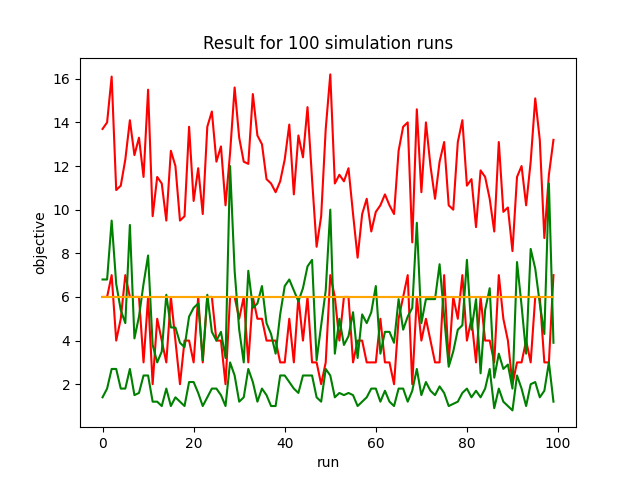
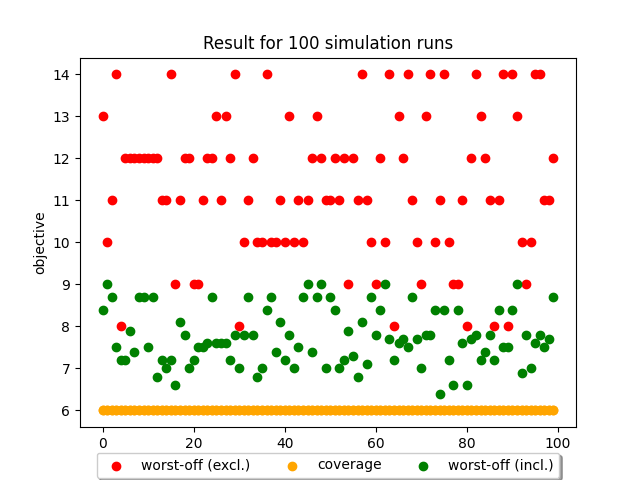
results 3x

diff --git a/NSP_benchmark/main.py b/NSP_benchmark/main.py
@@ -2,41 +2,60 @@ from model import find_schedule, read_instance
 import numpy as np
 import matplotlib.pyplot as plt
 
-runs = 10
+runs = 100
 total_dissat_runs = []
+worst_off_excl = []
+worst_off_incl = []
 worst_off_runs = []
 cover_runs = []
 total_dissat_BMs = []
 worst_off_BMs = []
 coverage_BMs = []
 
-for run in range(runs):
-    instance = read_instance(1)
-    for nurse in instance.N:
-        nurse.pref_alpha = round(np.random.uniform(0, 10, 1)[0])/10  # st.sidebar.slider('alpha*', 0.0, 1.0, 0.5, step=0.1)
+stack_cover = []
+stack_excl = []
+stack_incl =[]
 
-    schedule, tot_dis, worst_off, coverage = find_schedule(instance, weight_over=10, weight_under=100, include_satisf = True)  # returns NSP and sol
-    schedule, tot_dis_BM, worst_off_BM, coverage_BM = find_schedule(instance, weight_over=10,
-                                                           weight_under=100, include_satisf = False)  # returns NSP and sol
+for inst in range(4, 7):
+    for run in range(runs):
+        print(run)
+        instance = read_instance(inst)
+        for nurse in instance.N:
+            nurse.pref_alpha = round(np.random.uniform(0, 10, 1)[0])/10
 
-    total_dissat_runs.append(tot_dis/len(instance.N))
-    worst_off_runs.append(worst_off)
-    cover_runs.append(coverage/100)
-    total_dissat_BMs.append(tot_dis_BM/len(instance.N))
-    worst_off_BMs.append(worst_off_BM)
-    coverage_BMs.append(coverage_BM/100)
-    # TODO: show also schedules with same coverage but lower satisfaction scores (obj = coverage only)
+        schedule, tot_dis, worst_off, coverage = find_schedule(instance, weight_over=10, weight_under=100, include_satisf = True)  # returns NSP and sol
+        schedule, tot_dis_BM, worst_off_BM, coverage_BM = find_schedule(instance, weight_over=10,
+                                                               weight_under=100, include_satisf = False)  # returns NSP and sol
 
-plt.scatter(np.arange(runs), total_dissat_BMs, s='x', color='red', label='BM dissatisfaction penalty (sum)')
-plt.scatter(np.arange(runs), worst_off_BMs, s='o',color='red', label = 'BM worst off (dissatisfaction)')
-plt.scatter(np.arange(runs), coverage_BMs,s='-', color='orange', label='BM (under)coverage penalty')
+        total_dissat_runs.append(tot_dis/len(instance.N))
+        worst_off_incl.append(worst_off+coverage/100)
+        worst_off_excl.append(worst_off_BM+coverage/100)
+        cover_runs.append(coverage/100)
+        total_dissat_BMs.append(tot_dis_BM/len(instance.N))
+        worst_off_BMs.append(worst_off_BM+coverage_BM/100)
+        coverage_BMs.append(coverage_BM/100)
 
-plt.scatter(np.arange(runs), total_dissat_runs, s='x', color='green', label='dissatisfaction penalty (sum)')
-plt.scatter(np.arange(runs), worst_off_runs, s='o',color='green', label = 'worst off (dissatisfaction)')
-plt.scatter(np.arange(runs), cover_runs, s='-', color='orange', label='(under)coverage penalty')
-plt.title(f'Result for {runs} simulation runs')
-plt.xlabel('run')
-plt.ylabel('objective')
-plt.legend(loc='upper right')
-plt.savefig(f'simulation results/Simulation results for {runs} runs.png')
-plt.show()
+        stack_cover.append(coverage/100)
+        stack_excl.append(worst_off_BM)
+        stack_incl.append(worst_off)
+        # TODO: show also schedules with same coverage but lower satisfaction scores (obj = coverage only)
+
+    # #plt.scatter(np.arange(runs), total_dissat_BMs,  color='red', label='BM dissatisfaction penalty (sum)')
+    # plt.plot(np.arange(runs), worst_off_excl, color='red', label = 'worst-off (excl.)')
+    # plt.plot(np.arange(runs), cover_runs, color='orange', label='coverage')
+    # #plt.scatter(np.arange(runs), total_dissat_runs,  color='green', label='dissatisfaction penalty (sum)')
+    # plt.plot(np.arange(runs), worst_off_incl,color='green', label = 'worst-off (incl.)')
+    # plt.ylim(0, max(worst_off_excl)+3)
+
+
+    plt.stackplot(np.arange(runs), stack_cover, stack_incl, stack_excl, colors=['green', 'orange', 'red'])
+    #plt.scatter(np.arange(runs), worst_off_incl, color='red')
+
+    #plt.plot(np.arange(runs), cover_runs, color='orange', label='')
+
+    plt.title(f'Result for {runs} simulation runs')
+    plt.xlabel('run')
+    plt.ylabel('objective')
+    plt.legend(loc='upper center', bbox_to_anchor=(0.5, -0.05), ncol=4, fancybox=True, shadow=True)
+    plt.savefig(f'simulation results/Simulation results for {runs} runs instance {inst}.png')
+    plt.show()

diff --git a/NSP_benchmark/model.py b/NSP_benchmark/model.py
@@ -398,7 +398,7 @@ def find_schedule(instance, weight_under=100, weight_over=10, vis_schedule=True,
     if vis_schedule:
         schedule = pd.read_csv(
             f'C:/Users/EvavR/OneDrive/Documenten/GitHub/thesis_MSc/NSP_benchmark/instances1_24/instance{instance.instance_ID}/schedule_to_fill.csv',
-            delimiter=',')
+            delimiter=';')
         schedule.set_index('nurse', inplace=True)
 
         for day in D:
@@ -410,11 +410,9 @@ def find_schedule(instance, weight_under=100, weight_over=10, vis_schedule=True,
                         schedule.iloc[nurse.numerical_ID, day - 1] = shift.shift_ID
 
         schedule.to_csv(f'Schedule{instance.instance_ID}.csv')
-        print(schedule)
         return schedule, sol.get_value(obj_total_dissatisfaction), sol.get_value(obj_worst_off), sol.get_value(obj_cover)
 
     return NSP, sol
-
 
 def string_to_numerical_shift(shiftID, S):
     # look for shift in set S with shiftID string
@@ -460,11 +458,18 @@ def read_instance(inst_id):
                     row['MinConsecutiveDaysOff'], row['MaxWeekends']))
         ID = ID + 1
 
-    for nurse in N:
-        nurseID = nurse.nurse_ID
-        daysOffNurse1 = daysOff.loc[daysOff['EmployeeID'] == nurseID]['DayIndexes (start at zero)'].item()
-        # daysOffNurse2 = daysOff.loc[daysOff['EmployeeID'] == nurseID]['DayIndexes2 (start at zero)'].item()
-        nurse.days_off = [daysOffNurse1]
+    if inst_id < 4:
+        for nurse in N:
+            nurseID = nurse.nurse_ID
+            daysOffNurse1 = daysOff.loc[daysOff['EmployeeID'] == nurseID]['DayIndexes (start at zero)'].item()
+            nurse.days_off = [daysOffNurse1]
+
+    elif inst_id >= 4:
+        for nurse in N:
+            nurseID = nurse.nurse_ID
+            daysOffNurse1 = daysOff.loc[daysOff['EmployeeID'] == nurseID]['DayIndexes1 (start at zero)'].item()
+            daysOffNurse2 = daysOff.loc[daysOff['EmployeeID'] == nurseID]['DayIndexes2 (start at zero)'].item()
+            nurse.days_off = [daysOffNurse1, daysOffNurse2]
 
     S = set()
     ID = 0
